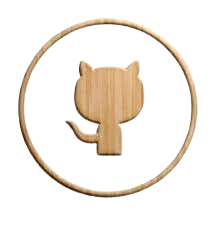
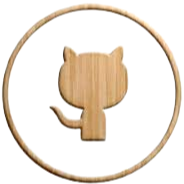
background mais claro

Changed region(s): [[0.0, 0.0, 1.0, 1.0], [0.2446, 0.2446, 0.7065, 0.788], [0.5435, 0.4076, 0.5978, 0.462]]

diff --git a/css/styles.css b/css/styles.css
@@ -31,7 +31,7 @@ h1{
     /*border: 1px solid red;*/
     width: 100%;
     padding:70px;
-    background-image: url(../assets/papel5.jpg);
+    background-image: url(../assets/papel5\ -\ Copia.png);
     background-size: cover;
     background-position: top;
     display: flex;
@@ -83,7 +83,7 @@ h1{
     /*border: 1px solid white;*/
     width: 100%; 
     padding: 50px; 
-    background-image: url(../assets/papel5.jpg);
+    background-image: url(../assets/papel5\ -\ Copia.png);
     background-size: cover;
     background-position: top;
     padding-bottom: 100px;   
@@ -212,7 +212,7 @@ h3{
     /*border: 1px solid black;*/
     width: 100%;
     padding:50px;
-    background-image: url(../assets/papel5.jpg);
+    background-image: url(../assets/papel5\ -\ Copia.png);
     background-size: cover;
     background-position: top;
     padding-bottom: 100px;
